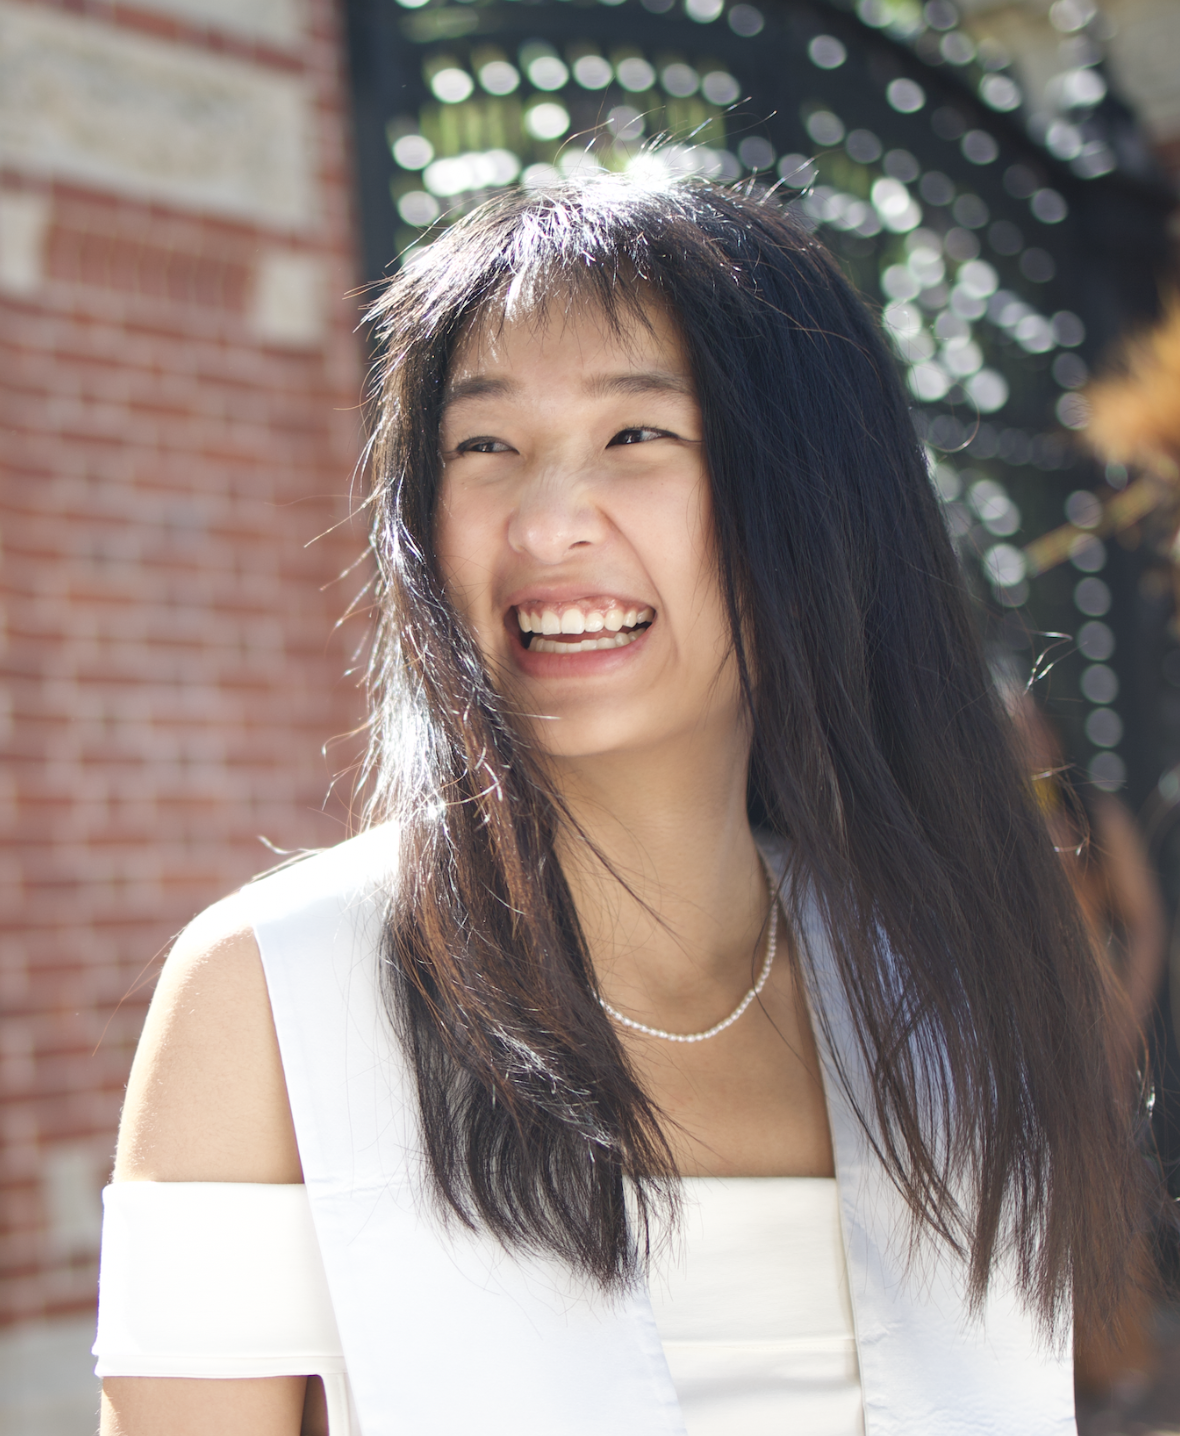
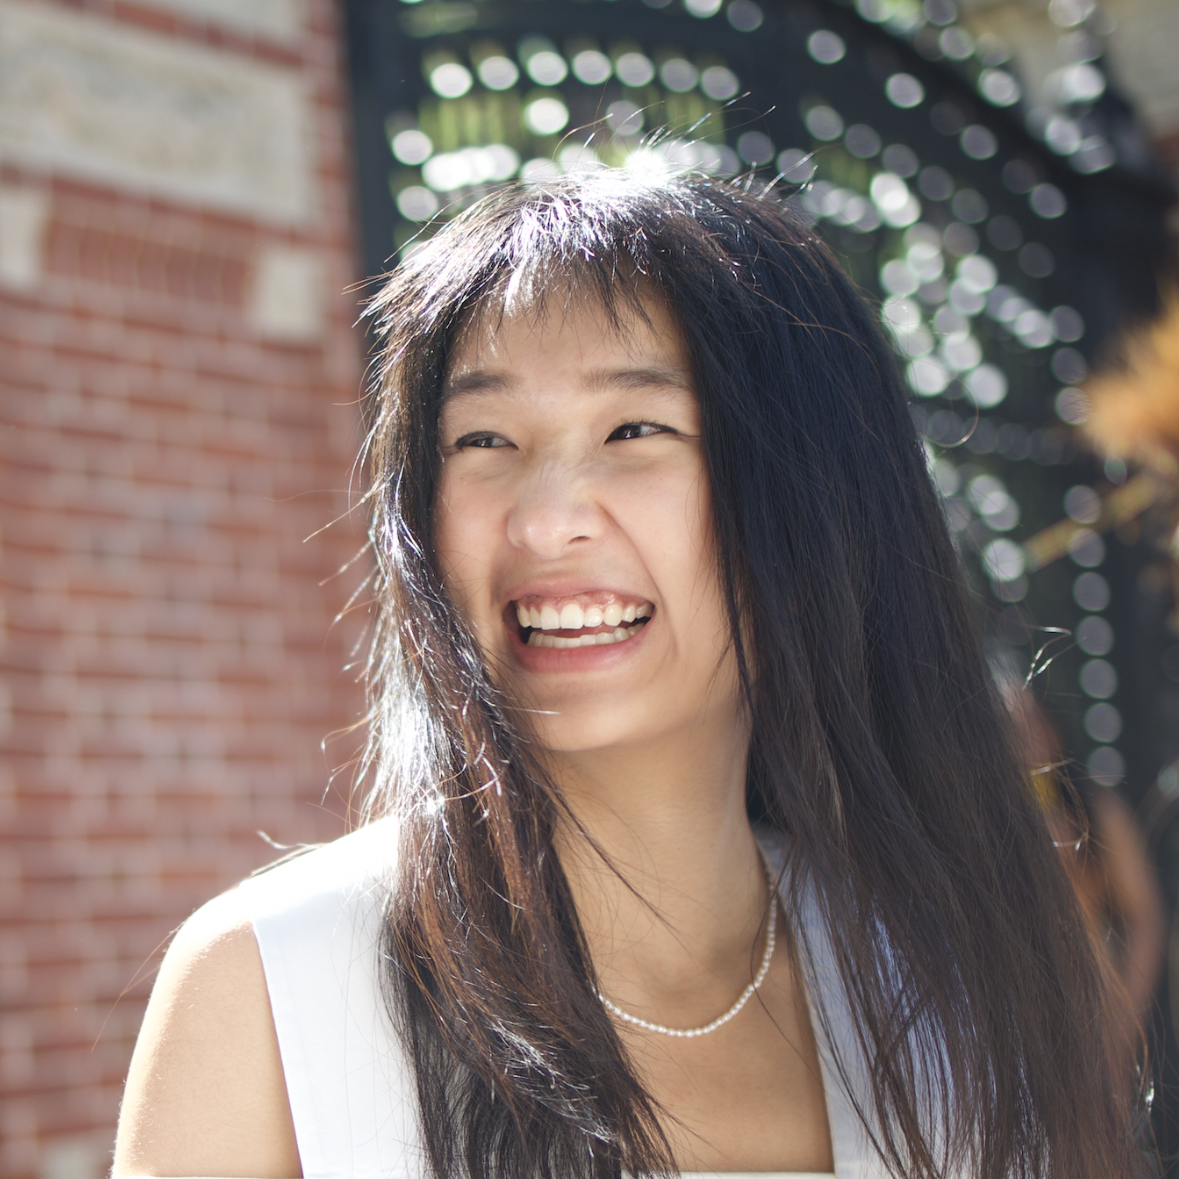
fixing image aspect ratio

diff --git a/my-3d-site/src/components/AboutPage/index.jsx b/my-3d-site/src/components/AboutPage/index.jsx
@@ -32,38 +32,40 @@ const jobs = [
 export default class AboutPage extends React.PureComponent {
   render() {
     return (
-      <>
+      <Box>
         <Box
-          alignItems="center"
-          display="flex"
-          flexDirection="column"
+          borderBottom="1px solid black"
+          display="grid"
+          gridTemplateColumns="1fr 1fr"
           justifyContent="center"
-          padding="20px"
         >
-          <StyledBox
+          <Box aspectRatio={1} borderRight="1px solid black" width="680px">
+            <img
+              height="100%"
+              width="100%"
+              objectFit="contain"
+              src={images["ivery"]}
+              alt="Ivery's profile pic"
+            />
+          </Box>
+          <Box display="flex" p="14px">
+            <Text fontWeight={500} textAlign="start">
+              Hi! My name is Ivery and I'm a fullstack software engineer, tech
+              artist, 3D animator, and ARVR/Graphics Unity Developer. I love
+              creative tools, ARVR, and anything 3D + Interactive. I also do
+              fashion photography, make animated films, watch movies, work out
+              and eat good Chinese food.
+            </Text>
+          </Box>
+          {/* <StyledBox
             alignItems="center"
             display="flex"
             flexDirection="column"
             justifyContent="center"
             maxWidth="75%"
             padding="30px"
-          >
-            <img
-              width="auto"
-              height="430px"
-              src={images["ivery"]}
-              alt="Ivery's profile pic"
-            />
-            <Box display="flex" p="14px">
-              <Text fontWeight={500} textAlign="start">
-                Hi! My name is Ivery and I'm a fullstack software engineer, tech
-                artist, 3D animator, and ARVR/Graphics Unity Developer. I love
-                creative tools, ARVR, and anything 3D + Interactive. I also do
-                fashion photography, make animated films, watch movies, work out
-                and eat good Chinese food.
-              </Text>
-            </Box>
-          </StyledBox>
+          > */}
+          {/* </StyledBox> */}
         </Box>
         <Box
           alignItems="center"
@@ -169,7 +171,7 @@ export default class AboutPage extends React.PureComponent {
             transition: "filter 0.3s ease-out",
           }}
         />
-      </>
+      </Box>
     );
   }
 }
